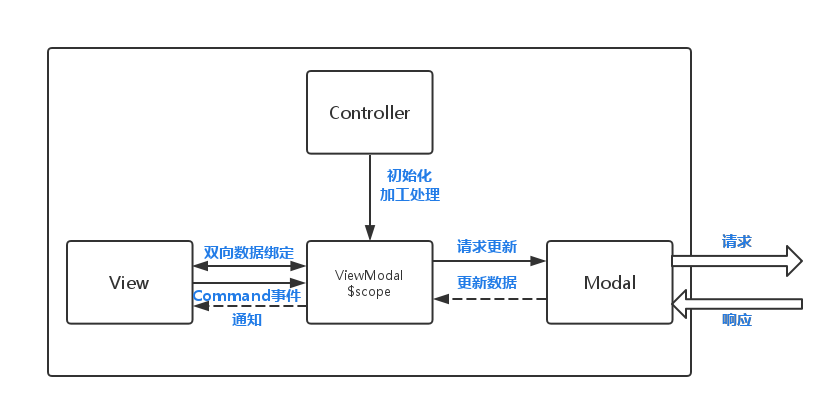
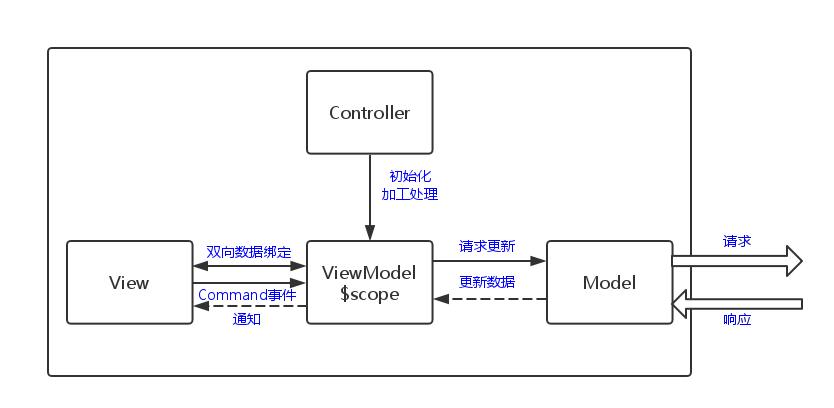
设计文档：添加了客户端架构

diff --git a/document/design/architecture.md b/document/design/architecture.md
@@ -52,8 +52,11 @@
 
 ![架构图](https://raw.githubusercontent.com/nettee/PortCityDefender/dev/document/design/img/architecture.png)
 
-## 2.4 结构
+客户端使用ionic混合式应用开发框架进行开发，基本采用Angularjs的MVVM架构模式。在用户对界面进行操作时，首先会经过路由确定由哪个View进行显示和渲染，然后以ViewModel为中介进行View和Model之间的交互；View将用户的产生的事件和操作传递给ViewModel，ViewModel将对应的数据更新请求发送给Model，Model会向服务器发送请求获取数据返回给ViewModel，再由ViewModel通知View完成视图更新；其中Controller的作用就是初始化ViewModel的数据和把多个Model组合起来为ViewModel提供数据服务。
 
+![客户端架构图](https://raw.githubusercontent.com/nettee/PortCityDefender/dev/document/design/img/client-architecture.png)
+
+## 2.4 结构
 
 ### 客户端
 
